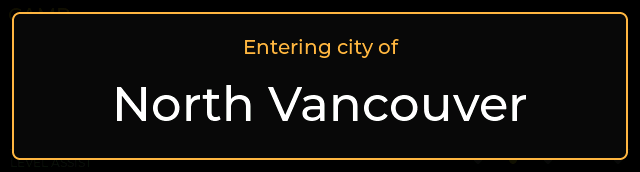
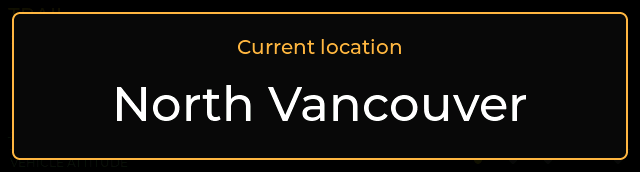
rename Entering city of to Current location

Changed region(s): [[0.375, 0.2326, 0.625, 0.3488]]

diff --git a/main/ui.cpp b/main/ui.cpp
@@ -71,7 +71,7 @@ static void city_notice_tick(){
     lv_obj_set_style_bg_color(panel,lv_color_hex(0x080b0d),0);lv_obj_set_style_bg_opa(panel,LV_OPA_COVER,0);
     lv_obj_set_style_border_color(panel,amber(),0);lv_obj_set_style_border_width(panel,2,0);lv_obj_set_style_radius(panel,8,0);
     lv_obj_clear_flag(panel,LV_OBJ_FLAG_SCROLLABLE|LV_OBJ_FLAG_GESTURE_BUBBLE);
-    auto heading=label(panel,"Entering city of",0,0,&lv_font_montserrat_20,amber());
+    auto heading=label(panel,"Current location",0,0,&lv_font_montserrat_20,amber());
     lv_obj_align(heading,LV_ALIGN_TOP_MID,0,22);
     lv_point_t size;lv_txt_get_size(&size,name,&lv_font_montserrat_48,0,0,LV_COORD_MAX,LV_TEXT_FLAG_NONE);
     auto city=label(panel,name,0,0,size.x>580?&lv_font_montserrat_32:&lv_font_montserrat_48,lv_color_white());

diff --git a/scripts/ui_preview/preview.cpp b/scripts/ui_preview/preview.cpp
@@ -124,7 +124,7 @@ int main(int argc,char **argv){
         }
         assert(lv_obj_get_child_cnt(lv_layer_top())==children+1);
         auto panel=lv_obj_get_child(lv_obj_get_child(lv_layer_top(),-1),0);
-        assert(std::strcmp(lv_label_get_text(lv_obj_get_child(panel,0)),"Entering city of")==0);
+        assert(std::strcmp(lv_label_get_text(lv_obj_get_child(panel,0)),"Current location")==0);
         assert(std::strcmp(lv_label_get_text(lv_obj_get_child(panel,1)),city_demo)==0);
         preview_time_us+=4999000;step();step();
         assert(lv_obj_get_child_cnt(lv_layer_top())==children+1);

diff --git a/README.md b/README.md
@@ -171,6 +171,6 @@ See [OBD setup, protocol and test status](docs/OBD_CONNECTION.md). The scanner w
 
 ### City arrival popup
 
-A newly reported city different from the last known city shows `Entering city of` and a large centered city name for five seconds on the top overlay layer over any page. The first fresh city after boot also shows the notice. Repeated packets and reconnecting to the same city do not repeat it. A new city during an existing notice replaces it and restarts the five-second duration. Set Zero confirmation takes priority, with the latest fresh city notice deferred until it closes. Touches do not pass through the popup.
+A newly reported city different from the last known city shows `Current location` and a large centered city name for five seconds on the top overlay layer over any page. The first fresh city after boot also shows the notice. Repeated packets and reconnecting to the same city do not repeat it. A new city during an existing notice replaces it and restarts the five-second duration. Set Zero confirmation takes priority, with the latest fresh city notice deferred until it closes. Touches do not pass through the popup.
 
 This uses the existing phone city lookup cadence (normally 15 minutes or 5 km movement), not live administrative-boundary detection. The existing 16-character BLE city-name limit still applies. Preview: `docs/previews/city-popup.png`. Host checks: `tests/city_notice_test.cpp`; actual LVGL timing checks via `TRAILSTRIP_PREVIEW_CITY=expire` (combine with `TRAILSTRIP_PREVIEW_ZERO=prompt` on Camp to check deferred display).

diff --git a/docs/VALIDATION.md b/docs/VALIDATION.md
@@ -28,7 +28,7 @@
 
 # Five-second city arrival notice — 2026-11-16
 
-- Added a centered overlay across all pages: Entering city of / city name in 48 px text (32 px fallback for unusually wide names). Automatically closes after five monotonic seconds, returning to the underlying page. New changes replace the notice and restart its duration.
+- Added a centered overlay across all pages: Current location / city name in 48 px text (32 px fallback for unusually wide names). Automatically closes after five monotonic seconds, returning to the underlying page. New changes replace the notice and restart its duration.
 - First fresh city establishes a baseline; repeats, temporary invalid data and reconnecting to the same city do not retrigger it. Last city retained in RAM only. Set Zero confirmation has priority and defers the latest fresh notice. Underlying gestures/touches are blocked during the notice, with release required across appearance/expiry.
 - Host city-change tests passed for baseline/repeats, reconnect, pending replacement, invalid-data cancellation and subsequent changes. Actual LVGL tests verified 4.999-second visibility, five-second expiry, no repeat, inverted landscape, deferred display after cancelling Set Zero and the existing confirm flow. Preview visually inspected: `docs/previews/city-popup.png`.
 - Uses current phone lookup cadence and 16-character city transport; no real-time boundary detection or iOS update.
